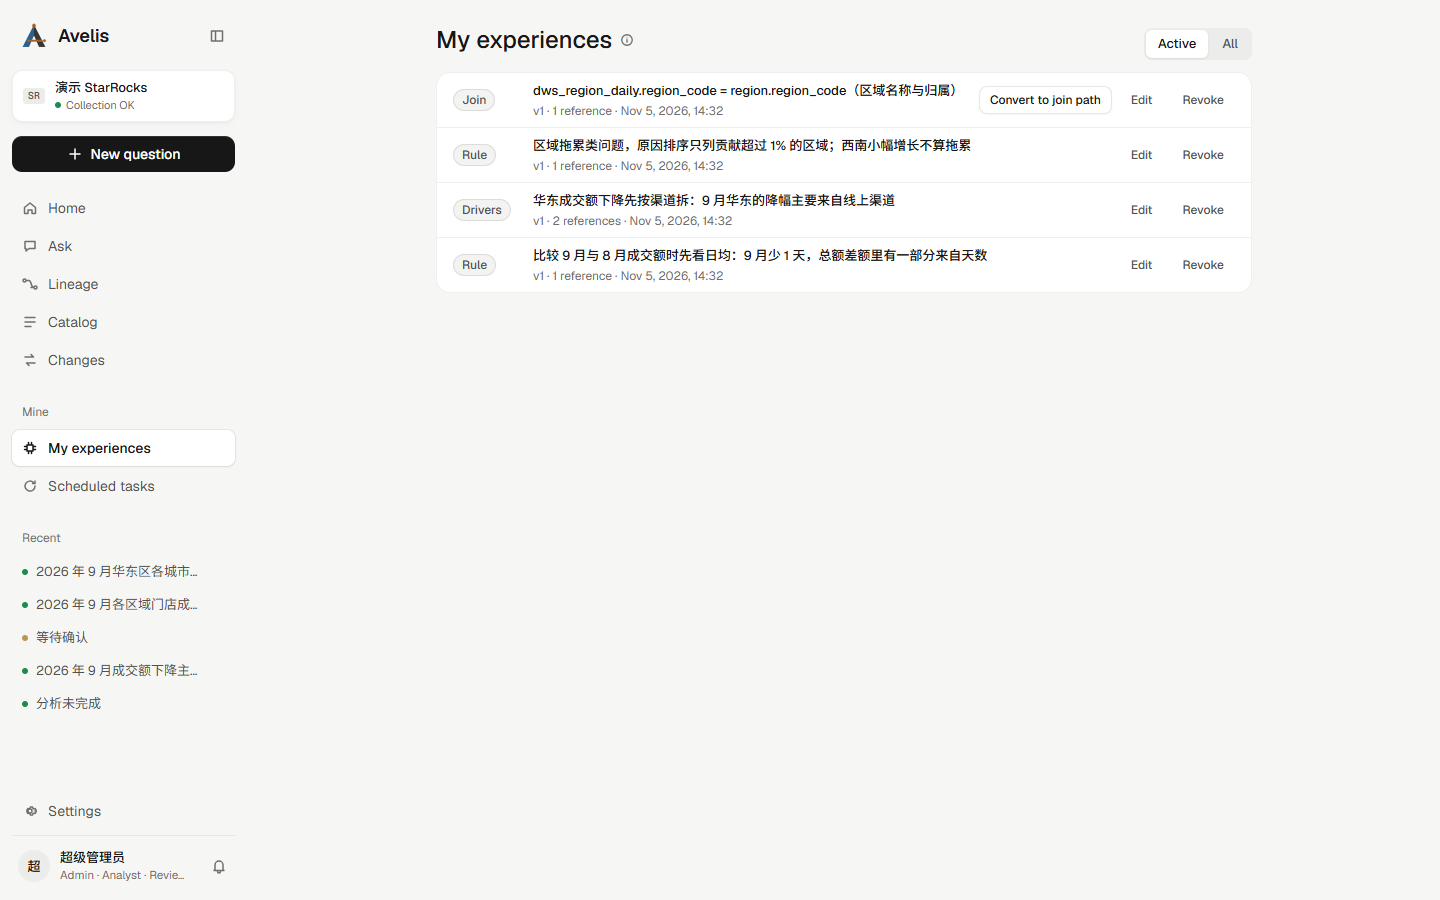
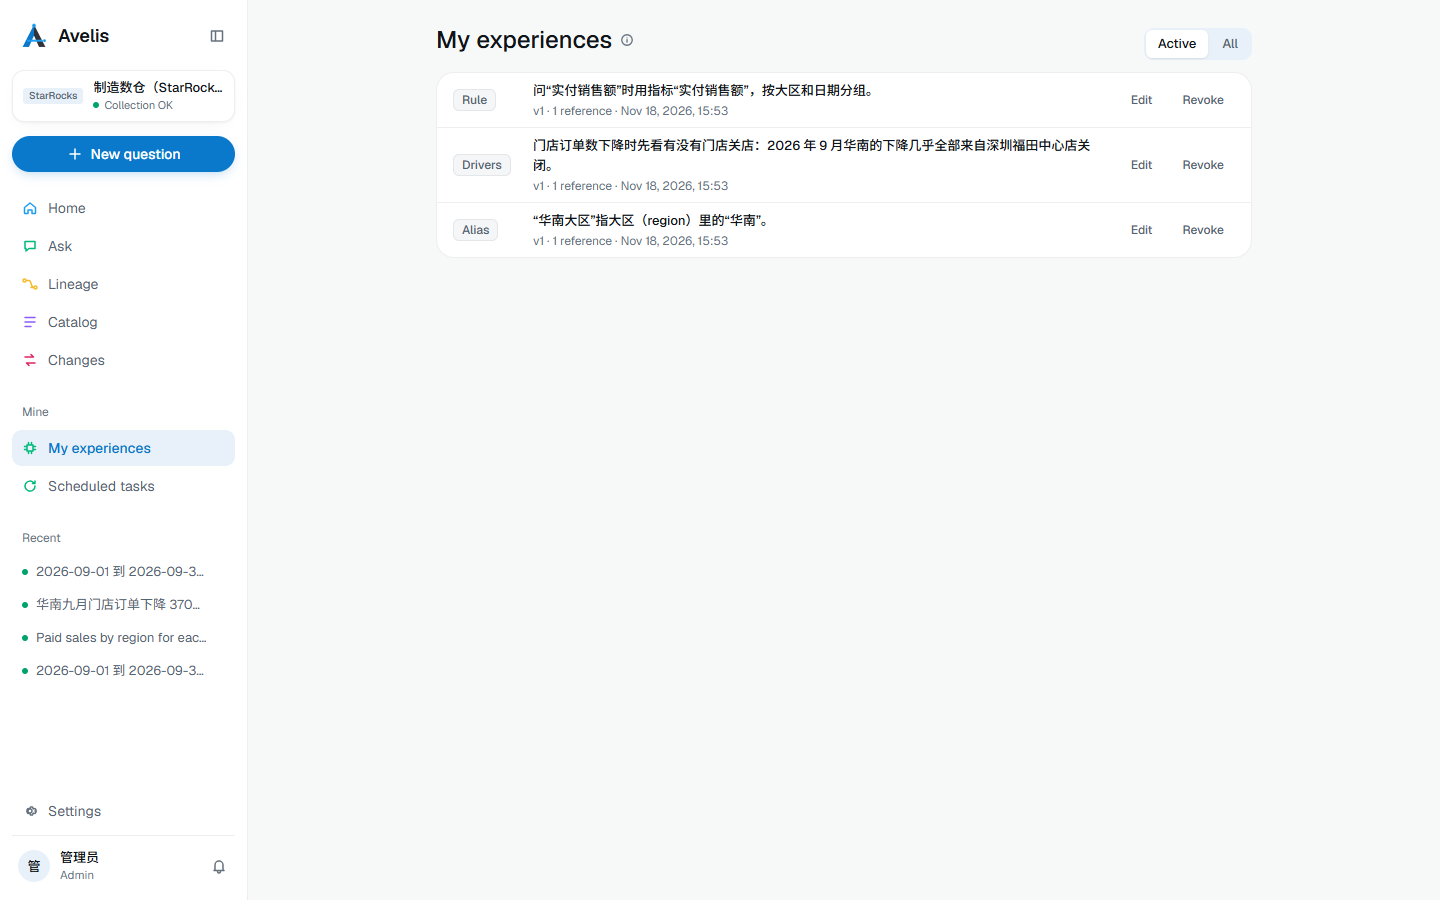
发布准备：v1.0.9
- CHANGELOG 将未发布内容定为 1.0.9；版本号、镜像名与三语 README 的版本信息
- 个人经验页截图按当前界面重新截取（三种语言），至此 48 张截图全部为当前界面

diff --git a/backend/src/avelis/api/app.py b/backend/src/avelis/api/app.py
@@ -83,7 +83,7 @@ def create_app(*, settings: Settings | None = None) -> FastAPI:
             raise ValueError(f"前端目录必须存在且包含目录内的 index.html：{frontend_dir}")
     app = FastAPI(
         title="Avelis API",
-        version="1.0.8",
+        version="1.0.9",
         openapi_url="/api/openapi.json",
         docs_url="/api/docs",
         redoc_url=None,

diff --git a/backend/src/avelis/mcp/server.py b/backend/src/avelis/mcp/server.py
@@ -70,7 +70,7 @@ def create_mcp_app(settings, session_maker=None):
     session_maker = session_maker or (lambda: db.session_factory()())
     server = MCPServer(
         "Avelis",
-        version="1.0.8",
+        version="1.0.9",
         subscriptions=False,
     )
     tool_arguments = {}

diff --git a/CHANGELOG.md b/CHANGELOG.md
@@ -4,13 +4,22 @@
 
 ## [未发布]
 
+## [1.0.9] - 2026-11-18
+
+本版本调整资产档案页与工作台的界面表达，统一界面文案为书面表达，并改进模型配置的上下文窗口输入。接口与数据结构不变，升级无需迁移。
+
 ### 变更
 
-- 资产档案页文案与操作调整：卡片与表格标题改为“上游表”“下游使用”“活跃口径”“近期提问”“结构变更”“字段来源”“产出方式”，按钮改为“AI 补写说明”“添加说明”“修改”“血缘图”，说明状态改为“AI 草稿 · 待确认”“来源已变更 · 需重新确认”；复制表名由顶部按钮改为表名后的复制图标。
-- 界面文案统一为书面表达：空状态由“还没有……”改为“暂无……”；分析报告的“还没查清”“继续查”改为“待查明”“继续分析”（导出的报告同步）；血缘导入的“未对上”改为“未匹配”。
-- 工作台：“最近变更”从右栏拆出为独立卡片，与“待办”并排；右栏只保留数据源与采集节奏。
-- README 与界面导览的截图按当前界面重新截取（三种语言，45 张；个人经验页沿用旧图）。
-- 模型配置：上下文窗口可带单位填写，k 表示千、M 表示百万（如 200k、1M），显示时同样使用单位。
+- **资产档案页**：卡片与表格标题改为“上游表”“下游使用”“活跃口径”“近期提问”“结构变更”“字段来源”“产出方式”“加工说明”；按钮改为“AI 补写说明”“添加说明”“修改”“血缘图”；说明状态改为“AI 草稿 · 待确认”“来源已变更 · 需重新确认”“暂无说明”。复制表名由顶部按钮改为表名后的复制图标。
+- **工作台**：“最近变更”从右栏拆出为独立卡片，与“待办”并排；“我负责的指标”占整行；右栏只保留数据源与采集节奏。
+- **模型配置**：上下文窗口可带单位填写，k 表示千、M 表示百万（如 200k、1M、1.5M），显示时同样使用单位；写法不对或超出范围时输入框提示。
+- **界面文案**：空状态由“还没有……”统一为“暂无……”；分析报告的“还没查清”“继续查”改为“待查明”“继续分析”，导出的报告同步；血缘导入的“未对上”改为“未匹配”。
+- README 与界面导览的截图按当前界面重新截取（三种语言，共 48 张）。
+
+### 修复
+
+- 复制表名时浏览器拒绝写入剪贴板，页面显示英文原始报错：改为统一的中文提示。
+- 血缘检查器里的表名链接使用浏览器默认的蓝色下划线样式：改为与正文一致，悬停时显示下划线。
 
 ## [1.0.8] - 2026-11-13
 
@@ -312,7 +321,8 @@
 - 带时区列的业务时区换算只在编译出的 SQL 层面验证过，尚未在真实 ClickHouse / Oracle 上执行。
 - 首次启动从配置文件登记的模型服务名称（如“（来自配置）”）是数据，不随界面语言变化，可在“设置 → 模型配置”里修改。
 
-[未发布]: https://github.com/shenhui027-arch/avelis/compare/v1.0.8...HEAD
+[未发布]: https://github.com/shenhui027-arch/avelis/compare/v1.0.9...HEAD
+[1.0.9]: https://github.com/shenhui027-arch/avelis/compare/v1.0.8...v1.0.9
 [1.0.8]: https://github.com/shenhui027-arch/avelis/compare/v1.0.7...v1.0.8
 [1.0.7]: https://github.com/shenhui027-arch/avelis/compare/v1.0.6...v1.0.7
 [1.0.6]: https://github.com/shenhui027-arch/avelis/compare/v1.0.5...v1.0.6

diff --git a/README.en.md b/README.en.md
@@ -15,7 +15,7 @@ English | [简体中文](README.md) | [繁體中文](README.zh-TW.md)
 [![agent](https://img.shields.io/badge/agent-LangGraph-1C3C3C?style=flat&logo=langchain&logoColor=white)](docs/architecture.en.md)
 [![SQL](https://img.shields.io/badge/SQL-SQLGlot%20%C2%B7%208%20engines-6E56CF?style=flat)](#supported-databases)
 [![deploy](https://img.shields.io/badge/deploy-Docker%20%C2%B7%20Compose-2496ED?style=flat&logo=docker&logoColor=white)](docs/deployment.en.md)
-[![version](https://img.shields.io/badge/version-v1.0.8-2EA44F?style=flat)](https://github.com/shenhui027-arch/avelis/releases/tag/v1.0.8)
+[![version](https://img.shields.io/badge/version-v1.0.9-2EA44F?style=flat)](https://github.com/shenhui027-arch/avelis/releases/tag/v1.0.9)
 
 [Highlights](#highlights) · [What's new](#whats-new) · [Screenshots](#screenshots) · [Databases](#supported-databases) · [Quick start](#quick-start) · [Docs](#documentation) · [Roadmap](#roadmap) · [Contributing](CONTRIBUTING.md) · [Security](SECURITY.md) · [Changelog](CHANGELOG.md)
 
@@ -26,7 +26,7 @@ Avelis answers business questions about your databases and shows where every num
 ![Analysis session: conclusion-first report, ranked causes, evidence panel and model bar](docs/images/en/analysis.png)
 
 > [!NOTE]
-> Avelis v1.0.8 is released; see the [changelog](CHANGELOG.md). The user interface and the documentation are available in English, Simplified Chinese and Traditional Chinese.
+> Avelis v1.0.9 is released; see the [changelog](CHANGELOG.md). The user interface and the documentation are available in English, Simplified Chinese and Traditional Chinese.
 
 ## A note from the author
 
@@ -51,6 +51,7 @@ AI has let developers like us be among the first to taste the rewards of this wa
 
 | Version | Added |
 |---|---|
+| **v1.0.9** | Interface wording: clearer titles, buttons and note states on the asset dossier, with a copy icon next to the table name; “Recent changes” is its own card on the workbench; the model context window accepts k and M units; empty states and analysis report wording are unified |
 | **v1.0.8** | Asset dossier: one page per table with upstream and downstream flow, metrics in use, recent questions, schema changes, column sources and how the table is produced; column notes are drafted by the model and confirmed by the owner. Answers gain highlights and a model reading, with a single Ask entry on the analysis page; six new charts (area, bar + line, Pareto, waterfall, heatmap, scatter). Design system v5 and a new sign-in page; “fingerprint” renamed “checksum”, database engines shown by full name |
 | **v1.0.7** | Login page fix: the header and content now share one centered width, so on wide screens the headline, product preview and sign-in card stay together instead of drifting to opposite edges |
 | **v1.0.6** | Interface redesign: a soft workbench look (light first, dark just as finished) without gradients, glows or redundant helper text, with extra context behind ⓘ tooltips; Motion animations for sliding selections, page changes and popovers opening and closing; reworked Ask home and workbench; fonts bundled with the image instead of downloaded at runtime |

diff --git a/docs/deployment.en.md b/docs/deployment.en.md
@@ -143,13 +143,13 @@ A data source's host is resolved **from inside the container**:
 With an external PostgreSQL and Redis, you can run the image on its own:
 
 ```bash
-docker build -t avelis:1.0.8 .                       # build at the repository root
+docker build -t avelis:1.0.9 .                       # build at the repository root
 docker run -d --name avelis -p 8080:8000 \
   -v "$PWD/avelis.toml:/etc/avelis/avelis.toml:ro" \
-  avelis:1.0.8
+  avelis:1.0.9
 docker run -d --name avelis-worker --no-healthcheck \
   -v "$PWD/avelis.toml:/etc/avelis/avelis.toml:ro" \
-  avelis:1.0.8 python -m avelis.jobs
+  avelis:1.0.9 python -m avelis.jobs
 ```
 
 The image reads `/etc/avelis/avelis.toml` by default. Its built-in health check targets the API, so the worker container disables it with `--no-healthcheck`. Point `[database]` and `[redis]` at the external services; `[bootstrap] auto_migrate` and `auto_init_admin` both default to `true` and may be omitted. You can also skip the configuration file and pass everything as `-e AVELIS_*` environment variables.
@@ -204,13 +204,13 @@ The image is self-contained: the built frontend, all Python dependencies, CJK fo
 
 ```bash
 # Connected machine (repository root)
-docker build -t avelis:1.0.8 .
+docker build -t avelis:1.0.9 .
 docker pull postgres:18-alpine
 docker pull valkey/valkey:8-alpine
-docker save avelis:1.0.8 postgres:18-alpine valkey/valkey:8-alpine | gzip > avelis-1.0.8-images.tar.gz   # about 260 MB
+docker save avelis:1.0.9 postgres:18-alpine valkey/valkey:8-alpine | gzip > avelis-1.0.9-images.tar.gz   # about 260 MB
 
 # Server (copy the image archive and the deploy/docker directory)
-docker load -i avelis-1.0.8-images.tar.gz
+docker load -i avelis-1.0.9-images.tar.gz
 cd deploy/docker
 cp avelis.example.toml avelis.toml   # fill it in
 docker compose up -d --no-build --pull never

diff --git a/docs/product-tour.en.md b/docs/product-tour.en.md
@@ -2,7 +2,7 @@
 
 English | [简体中文](product-tour.md) | [繁體中文](product-tour.zh-TW.md)
 
-This tour walks through the main pages of Avelis with screenshots. They were taken on 2026-11-18 from main after v1.0.8, at a 1440×900 viewport in the default light theme, plus two in the dark theme. The data on the pages is synthetic e-commerce and store demo data, and all names are fictional. The personal experience page keeps its v1.0.7 screenshot (engine tags there still show the old two-letter abbreviations); its entries were saved from this analysis's conclusions at that time.
+This tour walks through the main pages of Avelis with screenshots. They were taken on 2026-11-18 from main after v1.0.8, at a 1440×900 viewport in the default light theme, plus two in the dark theme. The data on the pages is synthetic e-commerce and store demo data, and all names are fictional. The entries on the personal experience page were saved before the screenshots from what was confirmed in this analysis.
 
 ## Sign-in
 

diff --git a/docs/product-tour.md b/docs/product-tour.md
@@ -2,7 +2,7 @@
 
 [English](product-tour.en.md) | 简体中文 | [繁體中文](product-tour.zh-TW.md)
 
-本文用截图介绍 Avelis 的主要页面。截图于 2026-11-18 从 v1.0.8 之后的 main 截取，1440×900 视口、默认浅色主题（另附两张深色）。页面里的数据是合成的电商与门店演示数据，人名均为虚构；个人经验页沿用 v1.0.7 时的截图（其中引擎标签仍是旧的两字母缩写），那几条经验是当时按这次分析的结论保存的。
+本文用截图介绍 Avelis 的主要页面。截图于 2026-11-18 从 v1.0.8 之后的 main 截取，1440×900 视口、默认浅色主题（另附两张深色）。页面里的数据是合成的电商与门店演示数据，人名均为虚构；个人经验页的几条经验是截图前按这次分析里确认的内容保存的。
 
 ## 登录
 

diff --git a/docs/product-tour.zh-TW.md b/docs/product-tour.zh-TW.md
@@ -2,7 +2,7 @@
 
 [English](product-tour.en.md) | [简体中文](product-tour.md) | 繁體中文
 
-本文用截圖介紹 Avelis 的主要頁面。截圖於 2026-11-18 從 v1.0.8 之後的 main 擷取，1440×900 視口、預設淺色主題（另附兩張深色）。頁面裡的資料是合成的電商與門店示範資料，人名均為虛構；個人經驗頁沿用 v1.0.7 時的截圖（其中引擎標籤仍是舊的兩字母縮寫），那幾條經驗是當時按這次分析的結論儲存的。
+本文用截圖介紹 Avelis 的主要頁面。截圖於 2026-11-18 從 v1.0.8 之後的 main 擷取，1440×900 視口、預設淺色主題（另附兩張深色）。頁面裡的資料是合成的電商與門店示範資料，人名均為虛構；個人經驗頁的幾條經驗是截圖前按這次分析裡確認的內容儲存的。
 
 ## 登入
 
